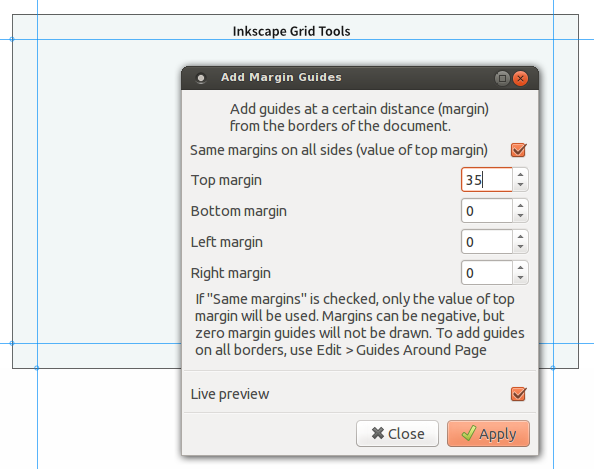
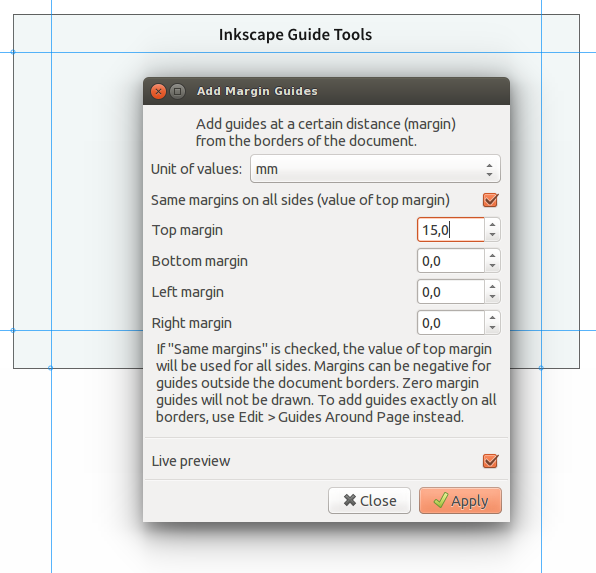
new screenshots, adapted readme file

Changed region(s): [[0.0, 0.0, 1.0, 1.0], [0.9697, 0.7164, 1.0, 0.7463], [0.0, 0.7164, 0.0303, 0.7463]]

diff --git a/README.md b/README.md
@@ -11,8 +11,6 @@ These are a series of [Inkscape](http://inkscape.org/) extensions related to gui
 4. Remove all guides
 5. Remove selected guides
 
-Note: the screenshots are not completely up to date.
-
 ### 1. Add centered guides to the document
 
 With this extension you can quickly add a horizontal and/or vertical guide through the center of the document.
@@ -21,9 +19,12 @@ With this extension you can quickly add a horizontal and/or vertical guide throu
 
 ### 2. Add margin guides to document
 
-Inkscape already allows you to add guides _exactly_ on the borders of the page, with **Edit > Guides around page**. 
+Inkscape already allows you to add guides _exactly_ on the borders of the page, with **Edit > Guides around page**. With this extension you can add guides at a certain distance (_margin_) from the borders of the document. 
 
-With this extension you can add guides at a certain distance (_margin_) from the borders of the document. Add them all at once (for equal margins) or separately. Negative margins creates guides _outside_ the page borders. Zero margin guides are not drawn - use the mentioned Guides around Page for that. Use any unit (pixels, mm, etc).
+- Add them all at once (for equal margins) or separately. 
+- Negative margins creates guides _outside_ the page borders. 
+- Zero margin guides are not drawn - use the mentioned Guides around Page for that. 
+- Use any unit (pixels, mm, in, etc). Independant of your document's units.
 
 ![Add margin guides](img/margins.png)
 
@@ -33,11 +34,11 @@ This extension will generate guides in a grid of **equal width columns (or rows)
 
 **Example 1**: Columns (vertical guides), with gutters, centered on the document
 
-![grid maker with columns](img/inkscape-gridmaker.png)
+![grid maker with columns](img/grid.png)
 
 **Example 2**: Rows (horizontal guides), gutters set to 0, top aligned
 
-![grid maker with rows](img/inkscape-gridmaker2.png)
+![grid maker with rows](img/grid-rows.png)
 
 This extension was conceived as a tool for grids in designing websites in Inkscape, using pixels. But it now works with other units too (mm, in, etc)
 
@@ -47,20 +48,19 @@ _With the Add Grid Guides extension, you can..._
 - **define the number of columns, the column width and gutter width** to generate a grid; same with rows;
 - generate **evenly spaced guides** *without* gutters by setting gutter width to 0;
 - choose to align the grid in relation to the page: left aligned, centered or right aligned;
-- optionnally add an extra horizontal/vertical offset, for example to generate the grid at a certain distance from the page border (when left/right aligned); this offset can be negative; for columns, this offset is a shift to the right (when positive), for rows it is a shift down (when positive)
+- optionnally add an extra horizontal/vertical offset, for example to generate the grid at a certain distance from the page border (when left/right aligned); this offset can be negative; for columns, this offset is a shift to the right (when positive), for rows it is a shift down (when positive);
 - optionnally delete all existing horizontal/vertical guides before generating the new guides;
 - see a preview using Live preview, to test different widths.
 
 _Tips:_
 
-- You can generate **multiple grids** on top of each other, by applying grids several times. Just be sure to uncheck "*Delete existing guides*". 
-- Need guides in the middle of your gutters? After generating the columns, generate a new grid with gutters set to zero, with column width set to [original column width + gutter width]. If you need centered guides on round pixels, use an even number for gutter width.
+- Need **guides in the middle of your gutters**? After generating the columns, generate a new grid with gutters set to zero, with column width set to [original column width + gutter width] - this will generate the centered guides in your gutters. If you need centered guides positioned on round pixels, be sure to use an even number for the original gutter width.
 - You can generate **grids side by side** by using a very large offset, one after the other.
 - Need a **baseline grid** in addition to the generated columns ? Use Inkscape's grids under File > Document Properties > Grids. Set a new rectangular grid with for example Spacing X = 2000, Spacing Y = 14.
 
 _Limitations:_
 
-- The grid is calculated "inside out" - from the _column width_, gutter width and number of columns, the guides are drawn. It currently cannot draw the guides "outside in" - from a _predefined total width_, a gutter width and number of columns, calculate the columns width and draw the guides... 
+- The grid is calculated "inside out" - from the _column width_, gutter width and number of columns, the guides are drawn. It currently cannot draw the guides "outside in" - from a _predefined total width_, a gutter width and number of columns, calculate the columns width and draw the guides. For that, try the Grid Creator extension (menu Extension > Render > Grid Creator - it will not draw gutters though)
 
 The Add Grid Guides is heavily based on the code from Grid Creator, part of Inkscape core, under Extensions > Render. Many thanks to that extension's maintainer.
 
@@ -78,9 +78,9 @@ Selectively remove all horizontal and/or vertical and/or angled (diagonal) guide
 
 ### How to install the extensions
 
-1. Download the zip archive to your computer;
+1. [Download the zip archive](https://github.com/sambody/inkscape-guide-tools/archive/master.zip) to your computer;
 2. Unzip (extract) the archive on your computer;
-3. Open it. In the folder "extensions", you will find the extension files - they come in pairs, an .inx and .py file for each extension. Copy these files (not the folder) into your Inkscape extensions folder:
+3. Open it. In the folder "extensions", you will find the extension files - they come in pairs, an .inx and .py file for each extension. Copy these files (not the folder) into your Inkscape extensions folder, which you can find here:
 
 - on Windows: "C:\Program Files\Inkscape\share\extensions"
 - on Linux: " /home/yourusername/.config/inkscape/extensions" (.config is a hidden folder)
@@ -88,15 +88,17 @@ Selectively remove all horizontal and/or vertical and/or angled (diagonal) guide
 
 Restart or open Inkscape.
 
-### Where to find them
+### Where to find the extension menu items
 
 The extensions will all be available in the menu under **Extensions > Guide**.
 
 ### Adding a keyboard shortcut
 
-You can add a keyboard shortcut to any inkscape extension, manually, by editing an xml file with user keyboard shortcuts.
+Using an extension often? You can add a keyboard shortcut to any inkscape extension, manually, by editing an xml file with user keyboard shortcuts.
 
-Edit your [user shortcuts files](http://wiki.inkscape.org/wiki/index.php/Customizing_Inkscape) (on Linux, it's /home/yourusername/.config/inkscape/keys/default.xml, on Windows, it's in Program Files\Inkscape\share\keys\default.xml.) For example, this will add the shortcut Ctrl-Shift-Alt-G to add centered guides:
+Edit your [user shortcuts files](http://wiki.inkscape.org/wiki/index.php/Customizing_Inkscape) (on Linux, it's /home/yourusername/.config/inkscape/keys/default.xml, on Windows, it's in Program Files\Inkscape\share\keys\default.xml.) 
+
+For example, this will add the shortcut Ctrl-Shift-Alt-G to add centered guides:
 
 `<bind key="G" modifiers="Ctrl,Alt,Shift" action="samplify.add_centered_guides" display="true"/>`
 
@@ -113,8 +115,10 @@ Note: you may want to check first to see if the new keyboard shortcuts already e
 ### What's next
 
 - It would be nice to also make an "outside in" grid building extension - where you would set a _total width_, a gutter width, and number of columns, and the extension would calculate the columns width and draw the guides. The total width could be defined by a number, or by the document (with or without margins), or by the bounding box of a selection...
-- It would be nice if the Margin guides and Centered guides would work _on selected objects_ instead of only on the document.
+- It would be nice if the Margin guides, Centered guides and Grid guides would work _on selected objects_ instead of only on the document.
 - ~~The Add Grid Guides and Add Margin Guides should be able to work with other units than pixels. And should not always have to be on round pixel positions.~~  Done - you can now use units different from pixels.
+- When generating a grid, it would be cool if one would receive the total width, somehow. Maybe by generating a text element above the grid, with the total width, or with a dialogue box. For example "Columns total width: 980 px"
+- Generating a diagonal grid?
 
 ### Licence
 
